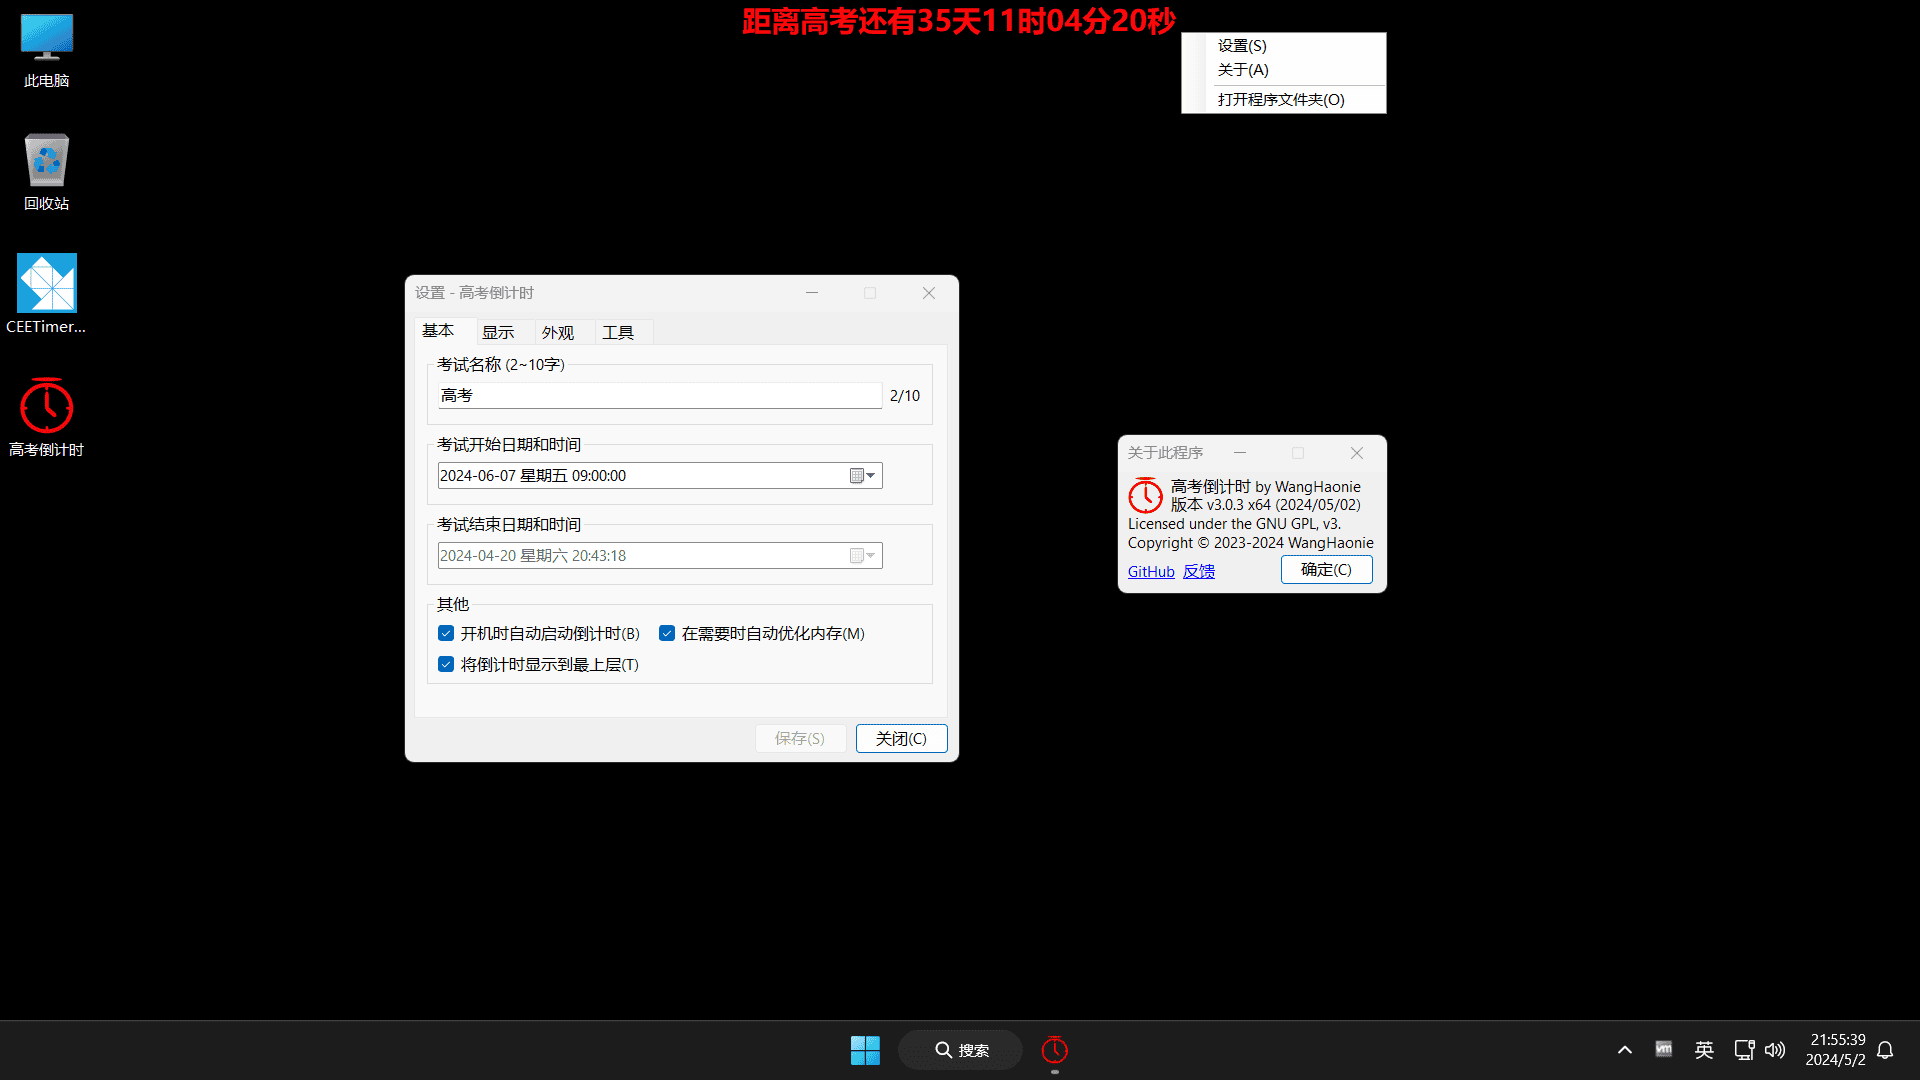
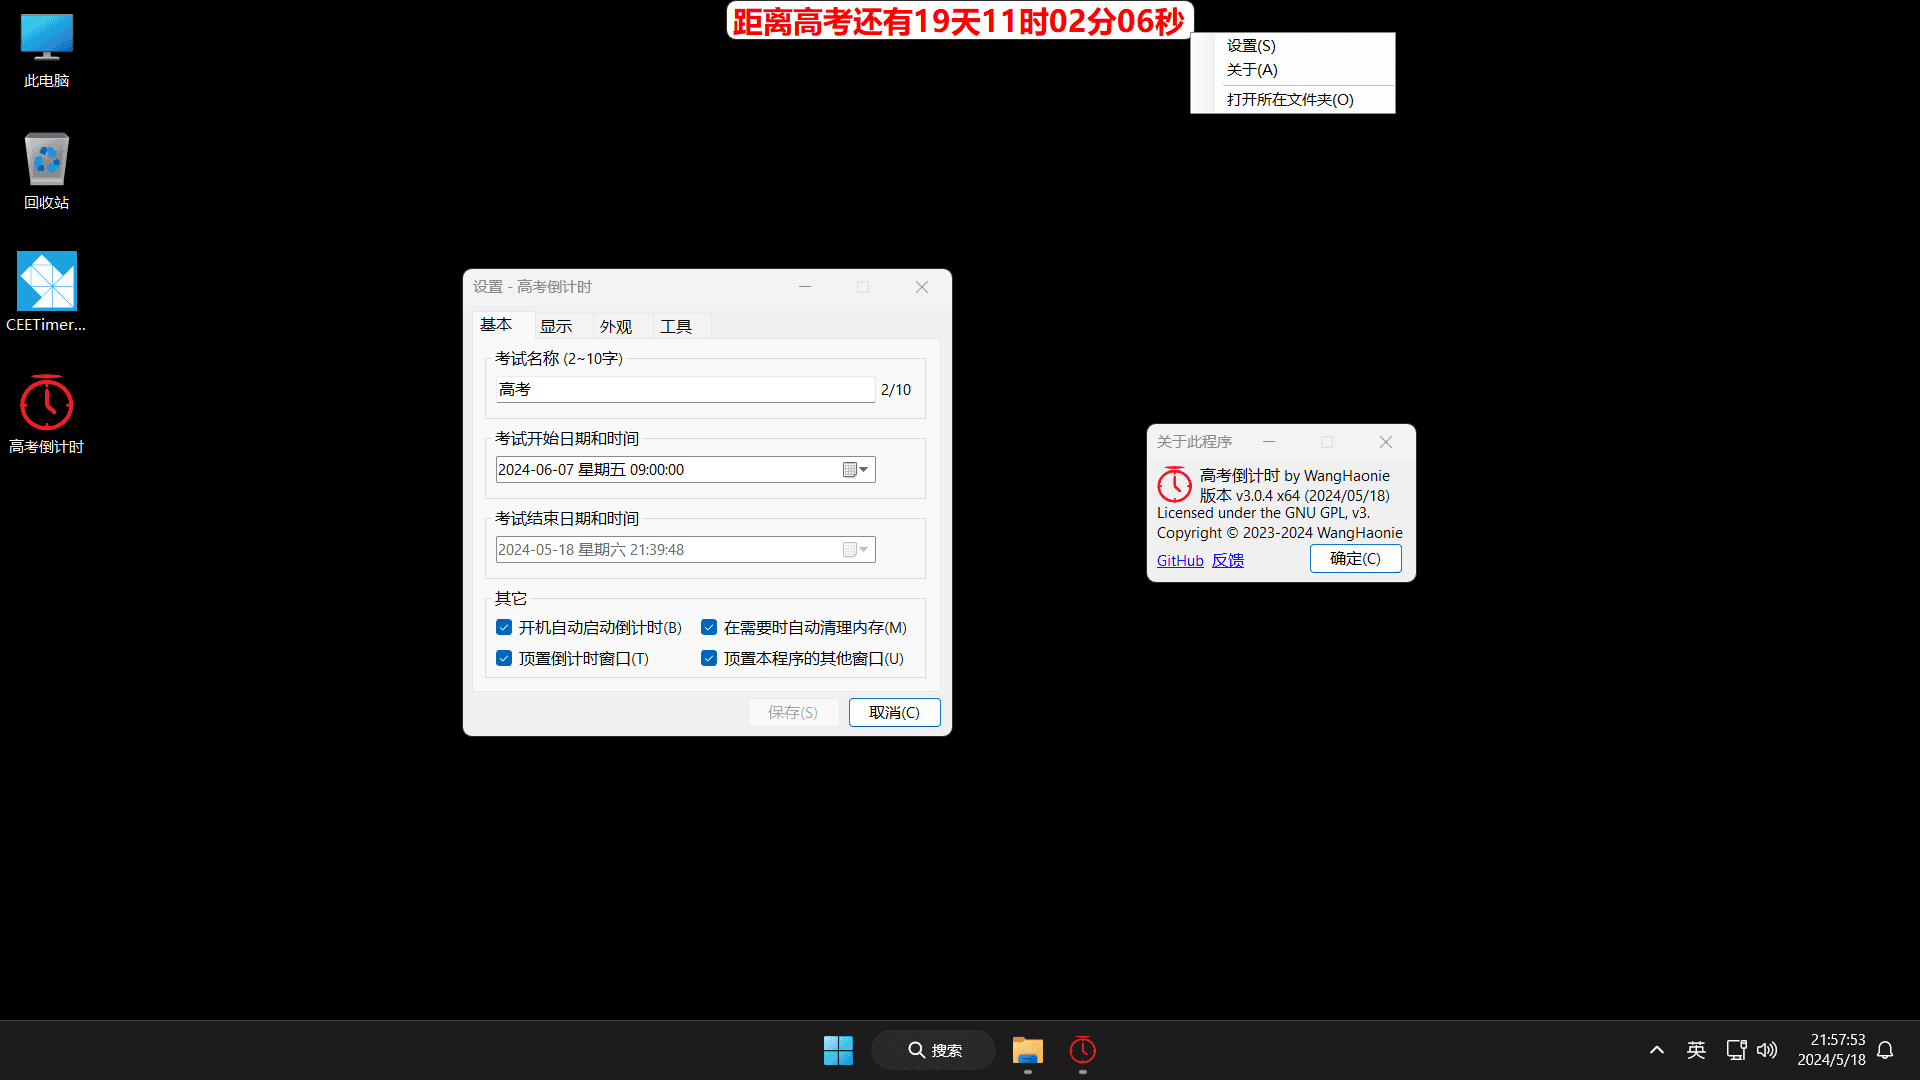
📢 发布了 v3.0.4

diff --git a/CEETimerCSharpWinForms/Modules/LaunchManager.cs b/CEETimerCSharpWinForms/Modules/LaunchManager.cs
@@ -15,8 +15,8 @@ namespace CEETimerCSharpWinForms.Modules
         public static string CurrentLatest { get; set; }
 
         public const string AppName = "高考倒计时 by WangHaonie";
-        public const string AppVersion = "3.0.3";
-        public const string AppBuildDate = "2024/05/02";
+        public const string AppVersion = "3.0.4";
+        public const string AppBuildDate = "2024/05/18";
         public const string CopyrightInfo = "Copyright © 2023-2024 WangHaonie";
         public const string OriginalFileName = "CEETimerCSharpWinForms.exe";
         public const string InfoMsg = "提示 - 高考倒计时";

diff --git a/CEETimerCSharpWinForms/Modules/MessageX.cs b/CEETimerCSharpWinForms/Modules/MessageX.cs
@@ -97,6 +97,14 @@ namespace CEETimerCSharpWinForms.Modules
                 }
                 else
                 {
+                    ParentForm.WindowState = FormWindowState.Normal;
+                    ParentForm.Activate();
+
+                    if (ParentTabControl != null)
+                    {
+                        ParentTabControl.SelectedTab = ParentTabPage;
+                    }
+
                     return _MessageBoxEx.ShowCore(ParentForm, Message, Title, MessageBoxExIcon, Sound, Buttons, Position, AutoClose);
                 }
             }
